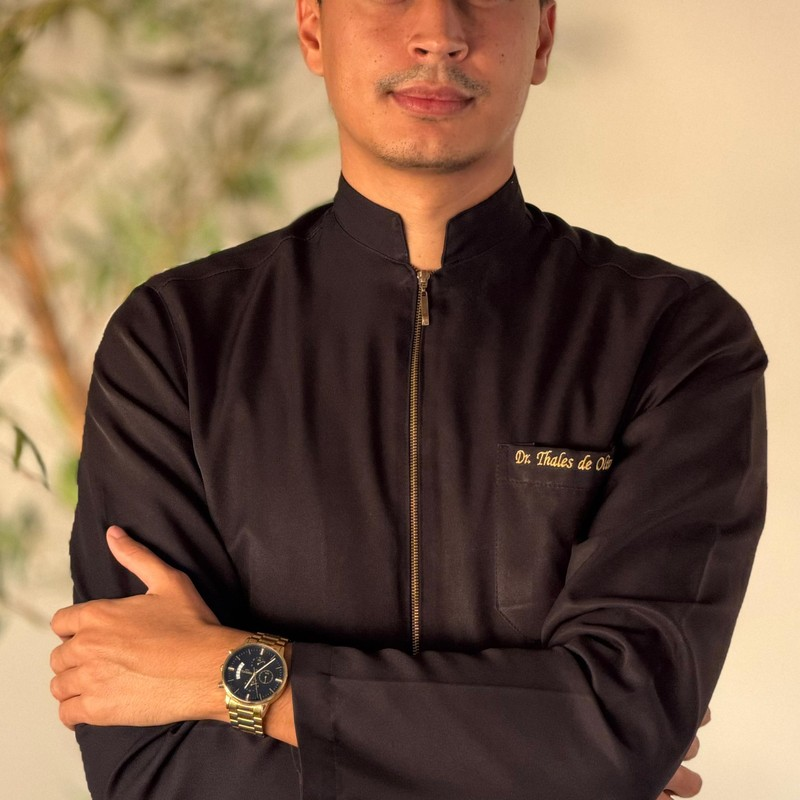
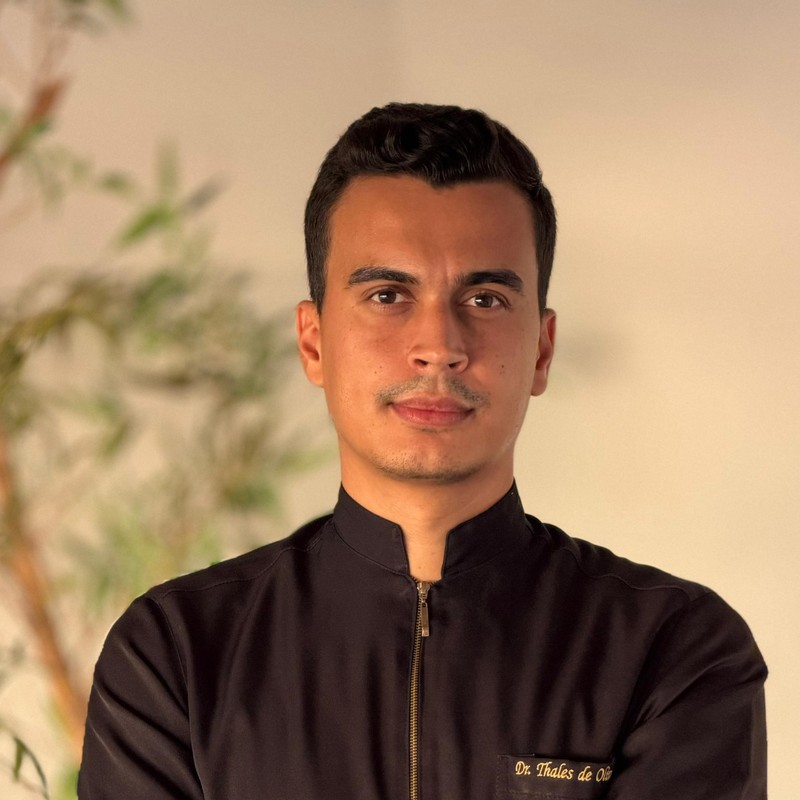
fix: aumento do tamanho das fotos da equipe e ajuste de enquadramento (top crop)

diff --git a/templates/home.html b/templates/home.html
@@ -140,7 +140,7 @@
                         <!-- 1: Dra Tamires -->
                         <div class="swiper-slide px-4">
                             <div class="text-center group">
-                                <div class="relative w-56 h-56 mx-auto mb-6 rounded-full overflow-hidden border-4 border-[var(--equipe-borda-foto)] shadow-lg transition-transform group-hover:scale-105">
+                                <div class="relative w-64 h-64 mx-auto mb-6 rounded-full overflow-hidden border-4 border-[var(--equipe-borda-foto)] shadow-lg transition-transform group-hover:scale-105">
                                     <img src="{% static 'imagens/dra_tamires.jpg' %}" alt="Dra. Tamires Passadori" class="w-full h-full object-cover object-top">
                                 </div>
                                 <h3 class="text-xl font-bold text-[var(--equipe-nome-medico)] mb-1">Dra. Tamires Passadori</h3>
@@ -150,7 +150,7 @@
                         <!-- 2: Dra Marcella -->
                         <div class="swiper-slide px-4">
                             <div class="text-center group">
-                                <div class="relative w-56 h-56 mx-auto mb-6 rounded-full overflow-hidden border-4 border-[var(--equipe-borda-foto)] shadow-lg transition-transform group-hover:scale-105">
+                                <div class="relative w-64 h-64 mx-auto mb-6 rounded-full overflow-hidden border-4 border-[var(--equipe-borda-foto)] shadow-lg transition-transform group-hover:scale-105">
                                     <img src="{% static 'imagens/dra_marcella.jpg' %}" alt="Dra. Marcella Januzzi" class="w-full h-full object-cover object-top">
                                 </div>
                                 <h3 class="text-xl font-bold text-[var(--equipe-nome-medico)] mb-1">Dra. Marcella Januzzi</h3>
@@ -160,7 +160,7 @@
                         <!-- 3: Dr. Thales Oliveira -->
                         <div class="swiper-slide px-4">
                             <div class="text-center group">
-                                <div class="relative w-56 h-56 mx-auto mb-6 rounded-full overflow-hidden border-4 border-[var(--equipe-borda-foto)] shadow-lg transition-transform group-hover:scale-105">
+                                <div class="relative w-64 h-64 mx-auto mb-6 rounded-full overflow-hidden border-4 border-[var(--equipe-borda-foto)] shadow-lg transition-transform group-hover:scale-105">
                                     <img src="{% static 'imagens/dr_thales.jpg' %}" alt="Dr. Thales Oliveira" class="w-full h-full object-cover object-top">
                                 </div>
                                 <h3 class="text-xl font-bold text-[var(--equipe-nome-medico)] mb-1">Dr. Thales Oliveira</h3>
@@ -170,7 +170,7 @@
                         <!-- 4: Dra Maria Isabela Gandolfo -->
                         <div class="swiper-slide px-4">
                             <div class="text-center group">
-                                <div class="relative w-56 h-56 mx-auto mb-6 rounded-full overflow-hidden border-4 border-[var(--equipe-borda-foto)] shadow-lg transition-transform group-hover:scale-105">
+                                <div class="relative w-64 h-64 mx-auto mb-6 rounded-full overflow-hidden border-4 border-[var(--equipe-borda-foto)] shadow-lg transition-transform group-hover:scale-105">
                                     <img src="{% static 'imagens/dra_isabela.jpg' %}" alt="Dra. Maria Isabela Gandolfo" class="w-full h-full object-cover object-top">
                                 </div>
                                 <h3 class="text-xl font-bold text-[var(--equipe-nome-medico)] mb-1">Dra. Maria Isabela Gandolfo</h3>

diff --git a/scratch/resize_doctors.py b/scratch/resize_doctors.py
@@ -8,18 +8,20 @@ def resize_image(input_path, output_path, size=(800, 800)):
             if img.mode in ("RGBA", "P"):
                 img = img.convert("RGB")
             
-            # Crop to square
+            # Crop to square (focusing on the top for portraits)
             width, height = img.size
             if width > height:
+                # Wide image: center crop horizontally
                 left = (width - height) / 2
                 top = 0
                 right = (width + height) / 2
                 bottom = height
             else:
+                # Tall image: crop from the top (with 5% offset for headroom if possible)
                 left = 0
-                top = (height - width) / 2
+                top = 0 # Starting from the very top to preserve the head
                 right = width
-                bottom = (height + width) / 2
+                bottom = width
             
             img = img.crop((left, top, right, bottom))
             img = img.resize(size, Image.Resampling.LANCZOS)
